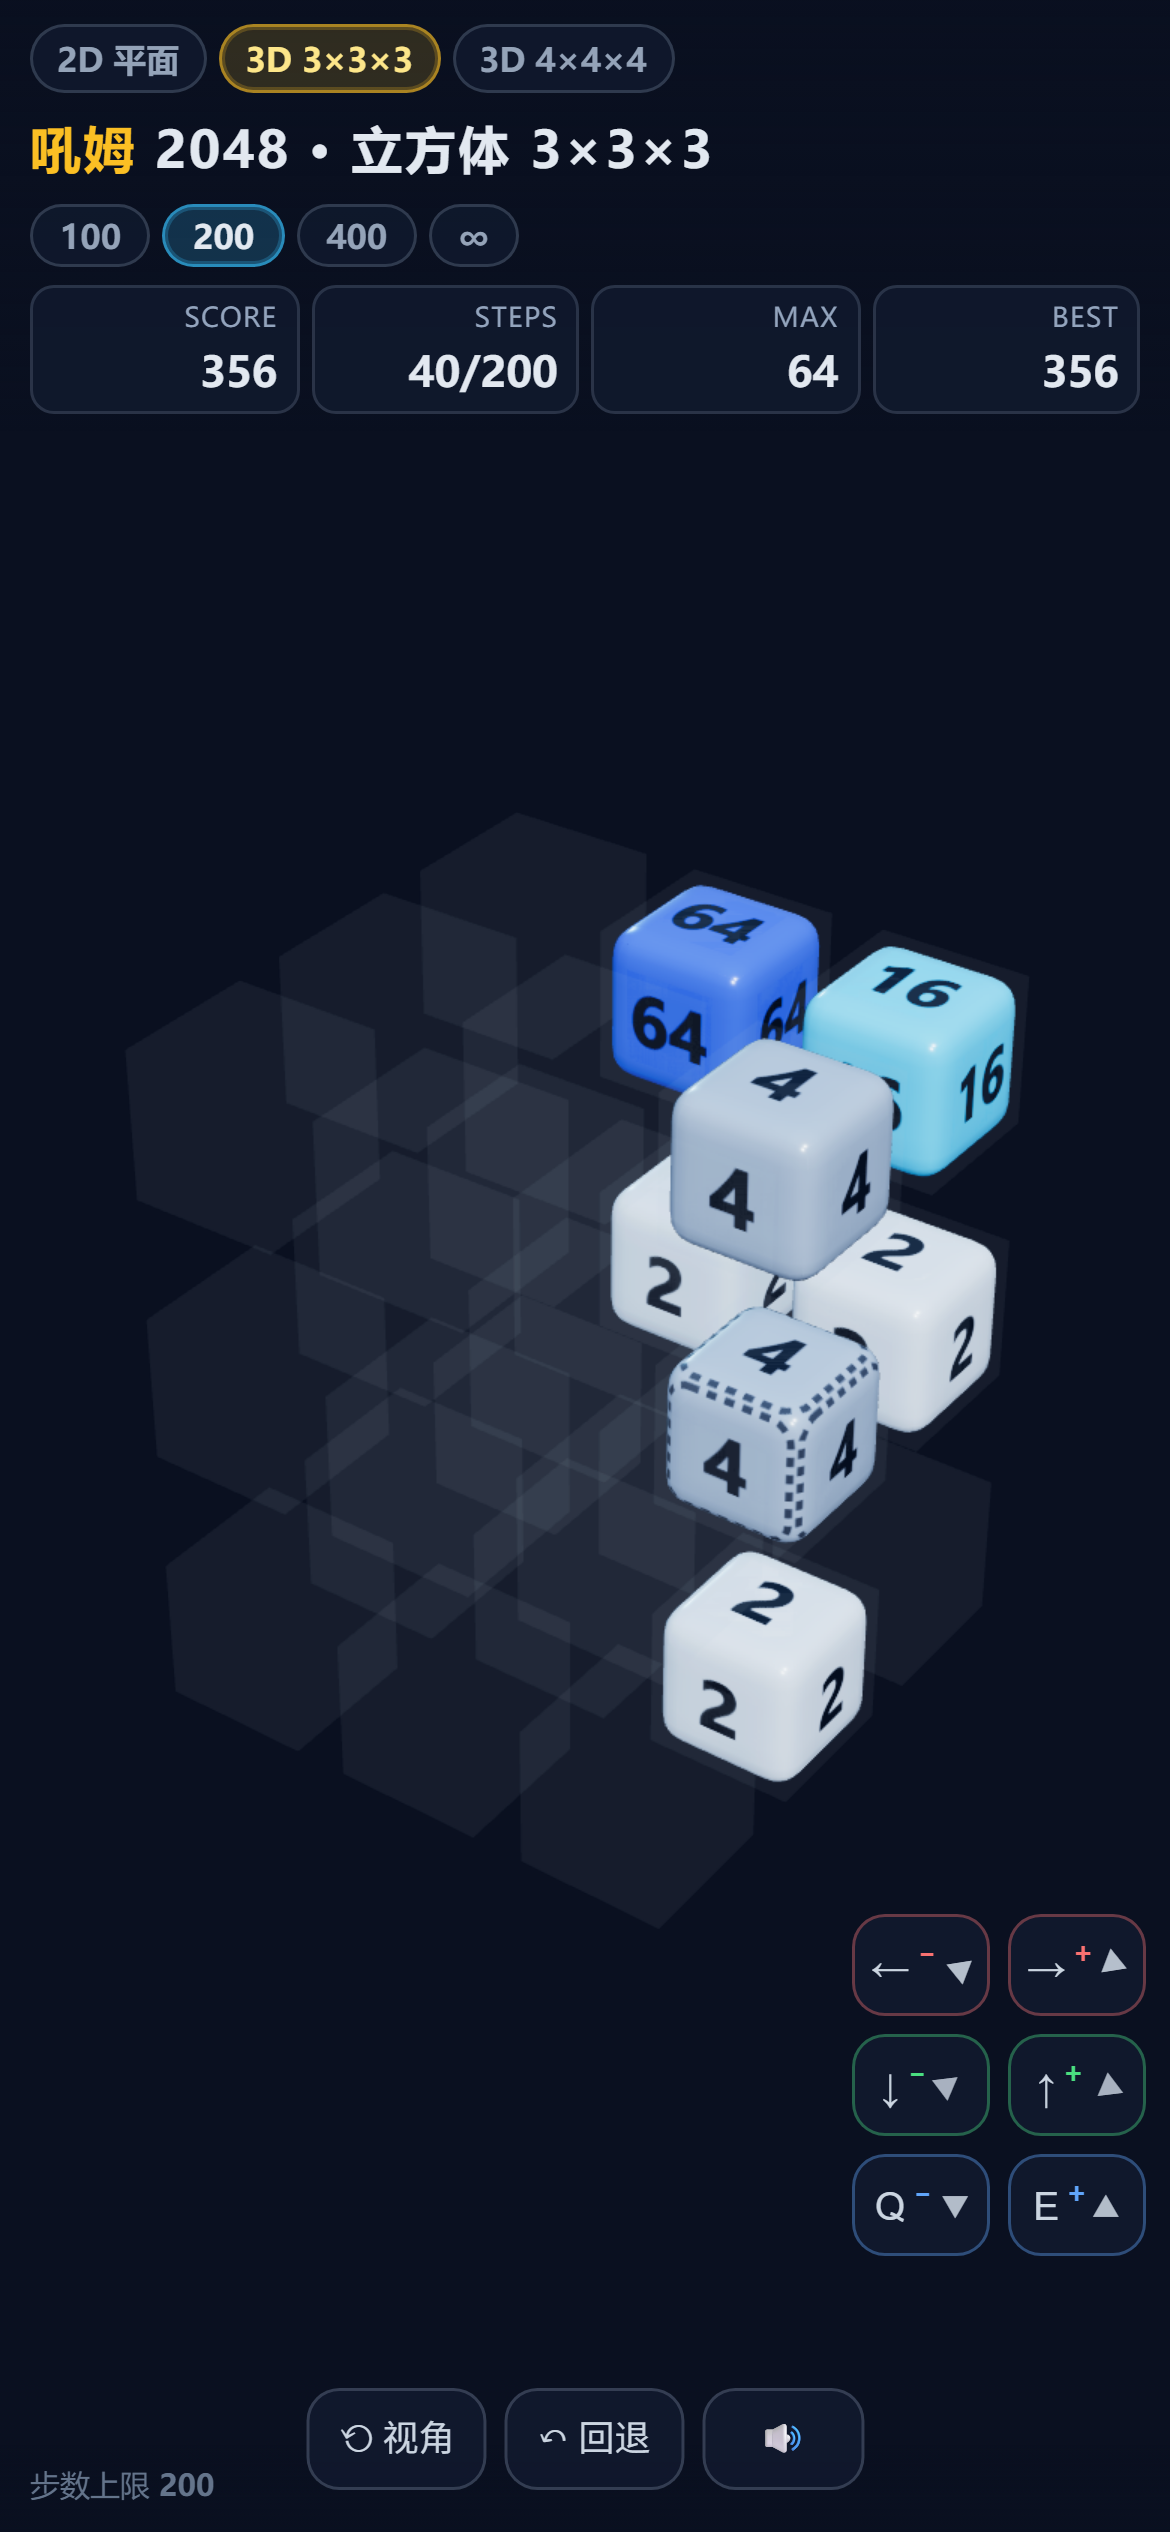
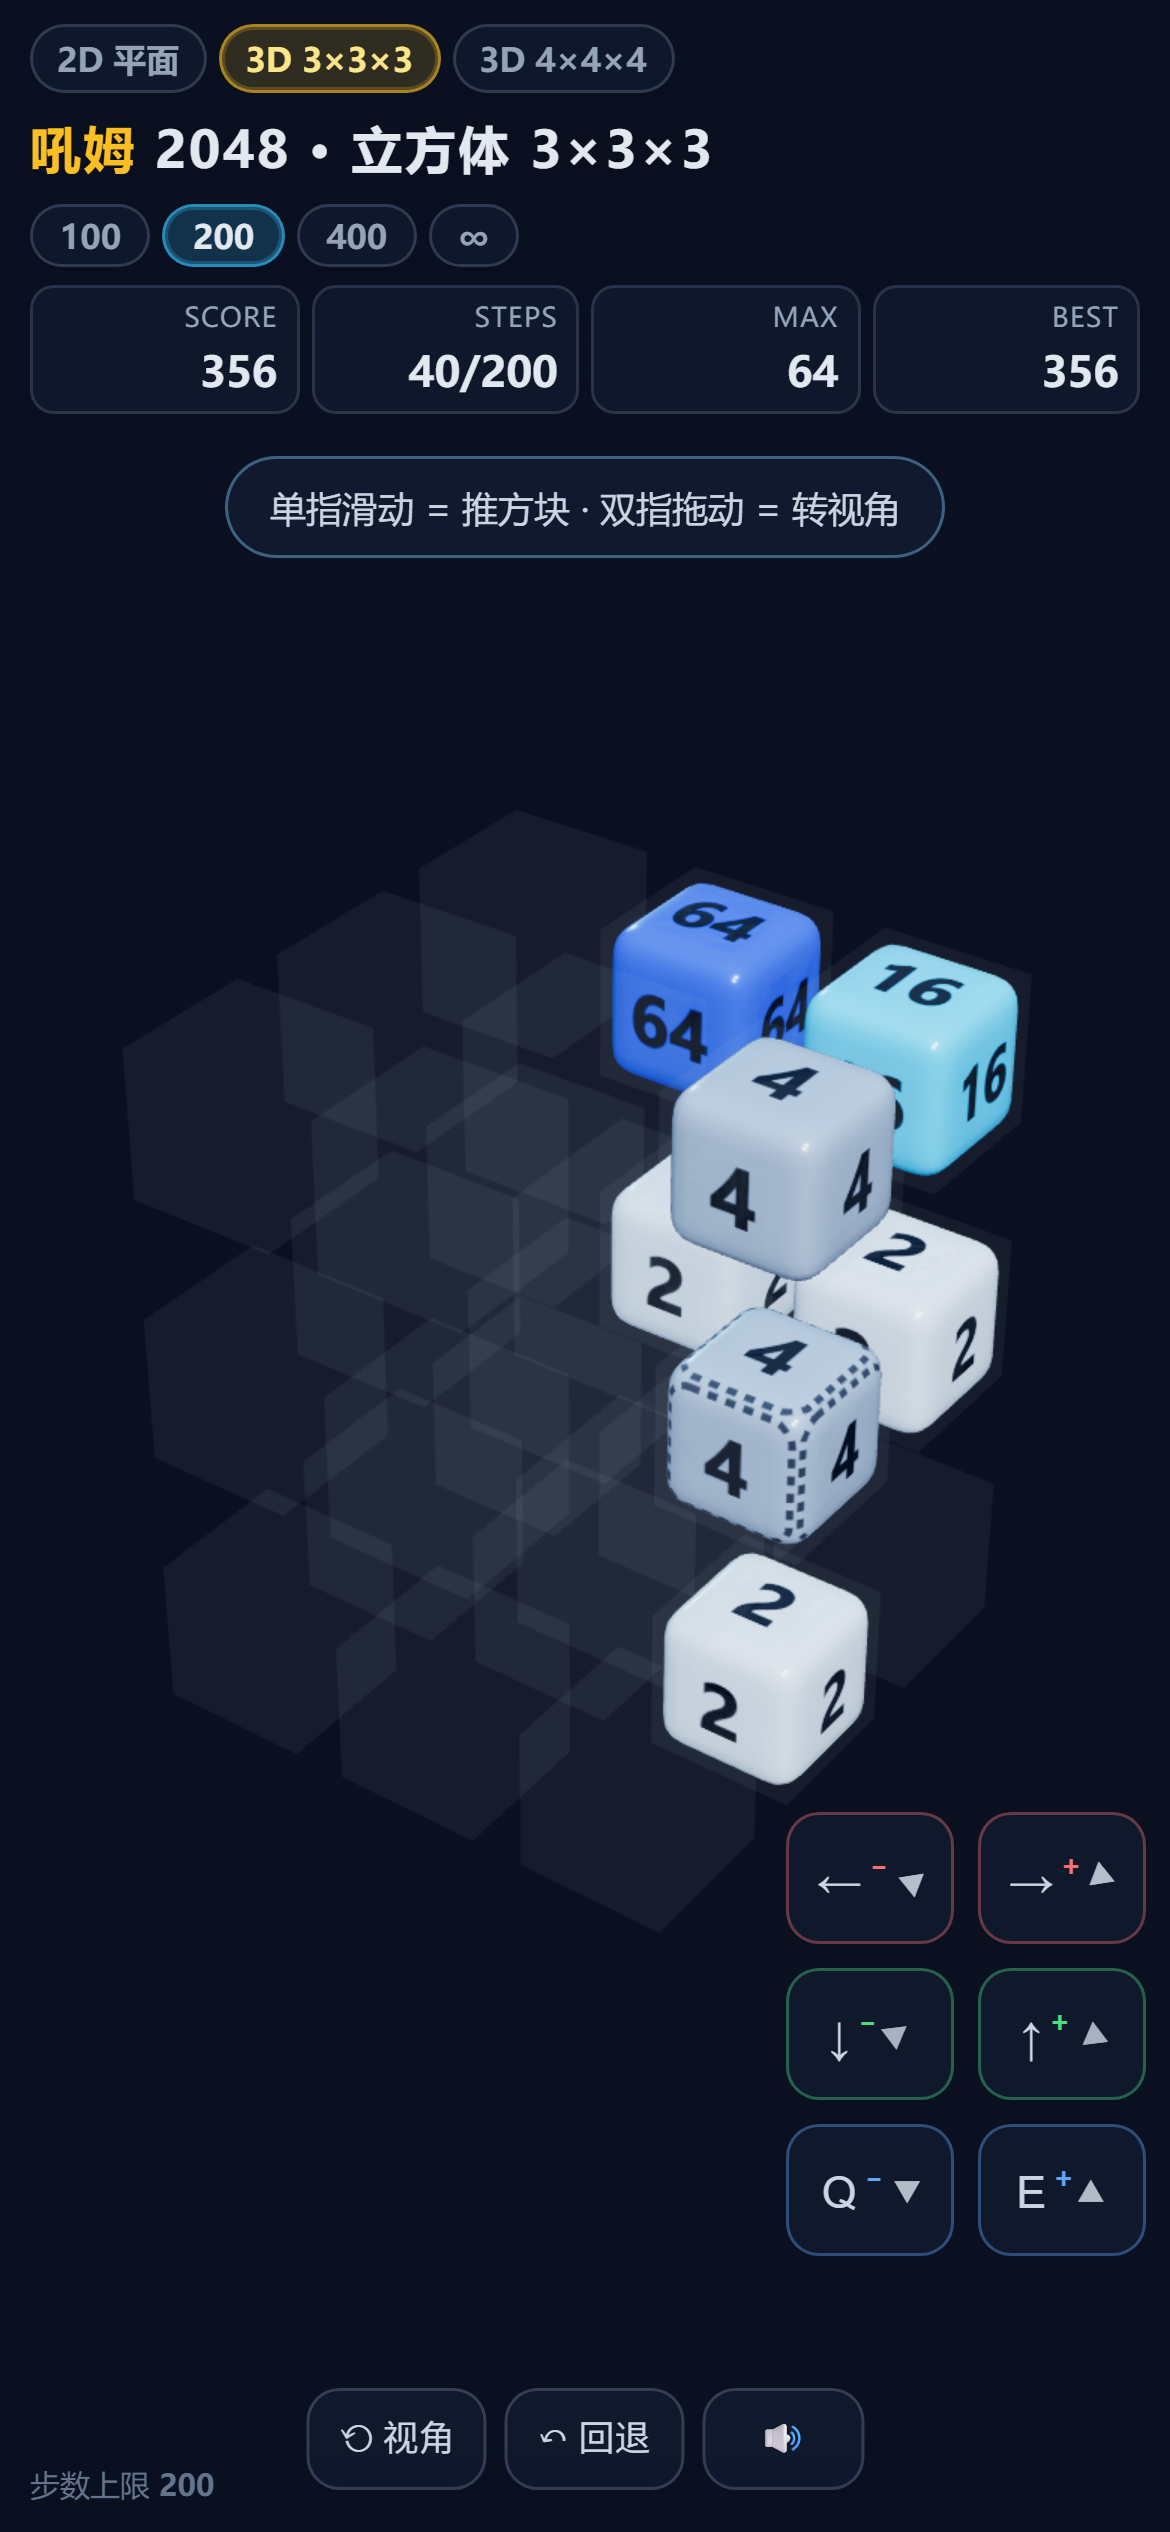
feat(mobile): 单指滑动推块、双指拖动转视角
- 触摸单指拖动原来只是转视角，等于推不动；现在按屏幕投影把滑动映射到最接近的世界轴
- 双指拖动转视角，鼠标拖动保持原样
- 手机方向按钮放大到 56x44
- 首次进入 3D 显示一条提示条（7 秒或首次出手后收起）
- 机位拟合改为按绝对朝向取最坏值，转视角时机位不再忽大忽小

diff --git a/game3d.js b/game3d.js
@@ -132,13 +132,13 @@
       const shift = targetShift()
       const portrait = camera.aspect < 1
       const target = portrait ? 0.90 : 0.94   // 占屏幕比例，留边给阴影与描边
-      // 竖屏时转视角会让投影宽度变化很大，按 4 个 yaw 取最坏值；横屏按当前 yaw 即可，不然白缩一圈
-      const yaws = portrait ? [0, Math.PI / 4, Math.PI / 2, Math.PI * 0.75] : [0]
+      // 竖屏时转视角会让投影宽度变化很大，按 4 个绝对朝向取最坏值（绝对角度 → 转动时机位不会忽大忽小）
+      const yaws = portrait ? [0, Math.PI / 4, Math.PI / 2, Math.PI * 0.75] : [cam.yaw]
       let worst = 6
-      for (const dYaw of yaws) {
+      for (const yaw of yaws) {
         let r = 14
         for (let i = 0; i < 3; i++) {
-          const m = maxExtent(r, cam.yaw + dYaw, shift)
+          const m = maxExtent(r, yaw, shift)
           r = Math.min(46, Math.max(6, r * (m / target)))
         }
         worst = Math.max(worst, r)
@@ -751,25 +751,74 @@
       step(dir)
     })
 
-    let drag = null
+    /* ---------- 指针：鼠标拖动转视角；触摸单指滑动推块、双指拖动转视角 ---------- */
+    const pointers = new Map()
+    let mouseDrag = null
+    let swipe = null
+
+    /** 把一次滑动映射到“屏幕上最接近的那个世界方向”。
+     *  手机上没有方向键概念，玩家只知道“往那边滑”，所以按当前机位的投影来挑方向。 */
+    function pushBySwipe (dx, dy) {
+      const len = Math.hypot(dx, dy)
+      if (len < 1) return
+      const ux = dx / len
+      const uy = dy / len
+      const proj = axesScreen()
+      let best = null
+      for (const dir of model.DIRS) {
+        const axis = dir[0]
+        const sign = dir[1] === '+' ? 1 : -1
+        const p = proj[axis]
+        const vx = p.x * sign
+        const vy = p.y * sign
+        const l = Math.hypot(vx, vy)
+        if (l < 0.15) continue           // 这根轴几乎正对镜头，屏幕上没有方向可言
+        const cos = (ux * vx + uy * vy) / l
+        if (!best || cos > best.cos) best = { dir, cos }
+      }
+      if (!best || best.cos < 0.45) return
+      if (api.onKey) api.onKey(best.dir)
+      step(best.dir)
+    }
+
     renderer.domElement.addEventListener('pointerdown', (e) => {
-      drag = { x: e.clientX, y: e.clientY }
-      renderer.domElement.setPointerCapture(e.pointerId)
+      if (!active) return
+      pointers.set(e.pointerId, { x: e.clientX, y: e.clientY })
+      try { renderer.domElement.setPointerCapture(e.pointerId) } catch { /* ignore */ }
+      if (e.pointerType === 'mouse') {
+        mouseDrag = { x: e.clientX, y: e.clientY }
+        return
+      }
+      // 单指：先记成滑动候选；第二根手指一进来就改判为“转视角”
+      swipe = pointers.size === 1
+        ? { id: e.pointerId, x: e.clientX, y: e.clientY, t: performance.now() }
+        : null
     })
+
     renderer.domElement.addEventListener('pointermove', (e) => {
-      if (!drag) return
-      const dx = (e.clientX - drag.x) * 0.007
-      const dy = (e.clientY - drag.y) * 0.007
-      cam.yaw -= dx
-      cam.pitch += dy
+      const prev = pointers.get(e.pointerId)
+      if (!prev) return
+      pointers.set(e.pointerId, { x: e.clientX, y: e.clientY })
+      const isMouse = e.pointerType === 'mouse'
+      if (!isMouse && pointers.size < 2) return   // 单指触摸留给滑动，不转视角
+      const k = isMouse ? 0.007 : 0.005
+      cam.yaw -= (e.clientX - prev.x) * k
+      cam.pitch += (e.clientY - prev.y) * k
       // 折进 (-π, π]，一次大位移也能落回区间（一次加减不够）
       cam.pitch = Math.atan2(Math.sin(cam.pitch), Math.cos(cam.pitch))
-      drag = { x: e.clientX, y: e.clientY }
       applyCam()
     })
+
     const end = (e) => {
-      drag = null
+      pointers.delete(e.pointerId)
       try { renderer.domElement.releasePointerCapture(e.pointerId) } catch { /* ignore */ }
+      if (e.pointerType === 'mouse') { mouseDrag = null; return }
+      if (!swipe || swipe.id !== e.pointerId) return
+      const dx = e.clientX - swipe.x
+      const dy = e.clientY - swipe.y
+      const dt = performance.now() - swipe.t
+      swipe = null
+      if (Math.hypot(dx, dy) >= 26 && dt < 700) pushBySwipe(dx, dy)
     }
     renderer.domElement.addEventListener('pointerup', end)
     renderer.domElement.addEventListener('pointercancel', end)

diff --git a/index.html b/index.html
@@ -247,6 +247,16 @@
     .boot-cube { animation: none; }
   }
 
+  /* 触摸设备的一次性提示 */
+  #touch-hint {
+    position: fixed; left: 50%; top: 152px; transform: translateX(-50%);
+    padding: 7px 14px; border-radius: 999px; z-index: 30; pointer-events: none;
+    background: rgba(17,26,46,.94); border: 1px solid rgba(125,211,252,.4);
+    color: #cbd5e1; font-size: 12px; white-space: nowrap;
+    transition: opacity .6s ease;
+  }
+  #touch-hint.gone { opacity: 0; }
+
   /* ---- 窄屏（手机）---- */
   @media (max-width: 720px), (max-height: 560px) {
     header { flex-direction: column; align-items: stretch; gap: 6px; padding: 8px 10px 6px; }
@@ -265,9 +275,9 @@
     #triad, .legend { display: none; }
     .pad-side {
       right: 8px; top: auto; bottom: 92px; transform: none;
-      grid-template-columns: repeat(2, 46px); gap: 6px;
+      grid-template-columns: repeat(2, 56px); gap: 8px;
     }
-    .pad-side .dir { height: 34px; min-width: 46px; padding: 0 6px; font-size: 13px; }
+    .pad-side .dir { height: 44px; min-width: 56px; padding: 0 8px; font-size: 15px; }
     .pad { bottom: 14px; gap: 6px; }
     .pad .dir { height: 34px; min-width: 54px; font-size: 12px; }
     footer { padding: 6px 10px 8px; font-size: 10px; }
@@ -283,6 +293,7 @@
   <div class="boot-cube"></div>
   <p id="boot-hint">正在加载…</p>
 </div>
+<div id="touch-hint" hidden>单指滑动 = 推方块 · 双指拖动 = 转视角</div>
 <div id="board2d"></div>
 <header>
   <div>
@@ -498,6 +509,7 @@
     if (!noSave && store) { try { store.setItem('homu3d.dim.v1', dim) } catch { /* ignore */ } }
     syncModePills(game)
     game.rebuild()
+    updateTouchHint()
   }
   for (const b of dimBtns) {
     b.addEventListener('pointerdown', (e) => {
@@ -615,6 +627,9 @@
   }
   let hotTimer = null
   const feedback = (dir) => {
+    // 玩家已经动手了，触摸提示可以收了
+    hintUsed = true
+    hideTouchHint()
     const axis = dir[0]
     const chip = document.querySelector(`.chip[data-axis=${axis}]`)
     if (chip) {
@@ -669,6 +684,27 @@
   } else {
     soundBtn.style.display = 'none'
   }
+
+  /* ---------- 触摸提示（只在触摸设备、且是 3D 时出现一次） ---------- */
+  const touchHint = document.getElementById('touch-hint')
+  const coarsePointer = matchMedia('(pointer: coarse)').matches
+  let hintUsed = false
+  let hintTimer = null
+  function hideTouchHint () {
+    if (!touchHint) return
+    touchHint.classList.add('gone')
+    clearTimeout(hintTimer)
+  }
+  function updateTouchHint () {
+    if (!touchHint) return
+    const want = coarsePointer && !hintUsed && (dim === '3d' || dim === '3d4')
+    if (!want) { hideTouchHint(); return }
+    touchHint.hidden = false
+    touchHint.classList.remove('gone')
+    clearTimeout(hintTimer)
+    hintTimer = setTimeout(hideTouchHint, 7000)
+  }
+
   applyDim()
 
   // 调试 / 自动化入口：探针按当前维度取 api（stats、state 之类）

diff --git a/README.md b/README.md
@@ -32,10 +32,10 @@ python -m http.server 8000
 
 | 操作 | 3D（3×3×3 / 4×4×4） | 2D 平面 |
 | --- | --- | --- |
-| 移动 | ←→ 走 X 轴、↑↓ 走 Y 轴（纵深）、Q/E 走 Z 轴（层深） | ←→↑↓ 或 WASD，或在棋盘上滑动 |
+| 移动 | ←→ 走 X 轴、↑↓ 走 Y 轴（纵深）、Q/E 走 Z 轴（层深）；手机上是**单指滑动**（按屏幕上最接近的方向） | ←→↑↓ 或 WASD，或在棋盘上滑动 |
 | 光标移动 | 右侧中部六个按钮，与键盘同一套世界轴 | 无（方向键即可） |
 | 分层 / 紧凑 | L | — |
-| 拖动视角 | 在空白处按住拖动，滚轮缩放 | — |
+| 拖动视角 | 鼠标拖动 / **双指拖动**，滚轮缩放 | — |
 | 回退一步 | 底部 `↶ 回退` 或 Ctrl+Z，最多 50 步 | 同左 |
 | 视角复位 | 底部 `⟲ 视角` 或 V | — |
 | 音效开关 | 底部 `🔊` 或 M | 同左 |
@@ -111,7 +111,9 @@ node probe-cdp.mjs                 # 需要本机有 Chrome 或 Edge，可用 ED
 
 需要 WebGL（Chrome / Edge / Firefox / Safari 近两年版本均可）。移动端：平面版支持滑动手势，立方版用右侧六个方向按钮。
 
-手机上是另一套布局：标题栏收成竖排、状态卡铺满一行、坐标轴与轴徽章收起、六个方向按钮挪到右下；立方体的机位会按屏幕比例自动重算（竖屏时还会对多个朝向取最坏值，转视角也不会顶出屏幕）。
+手机上是另一套布局与操作：标题栏收成竖排、状态卡铺满一行、坐标轴与轴徽章收起、六个方向按钮放大挪到右下；
+立方体**单指滑动 = 推方块**（取屏幕上最接近的那个世界方向）、**双指拖动 = 转视角**；
+机位按屏幕比例自动重算（竖屏还会对四个朝向取最坏值，转视角也不会顶出屏幕）。
 
 | 手机 · 3×3×3 | 手机 · 4×4×4 | 手机 · 平面 |
 | --- | --- | --- |
